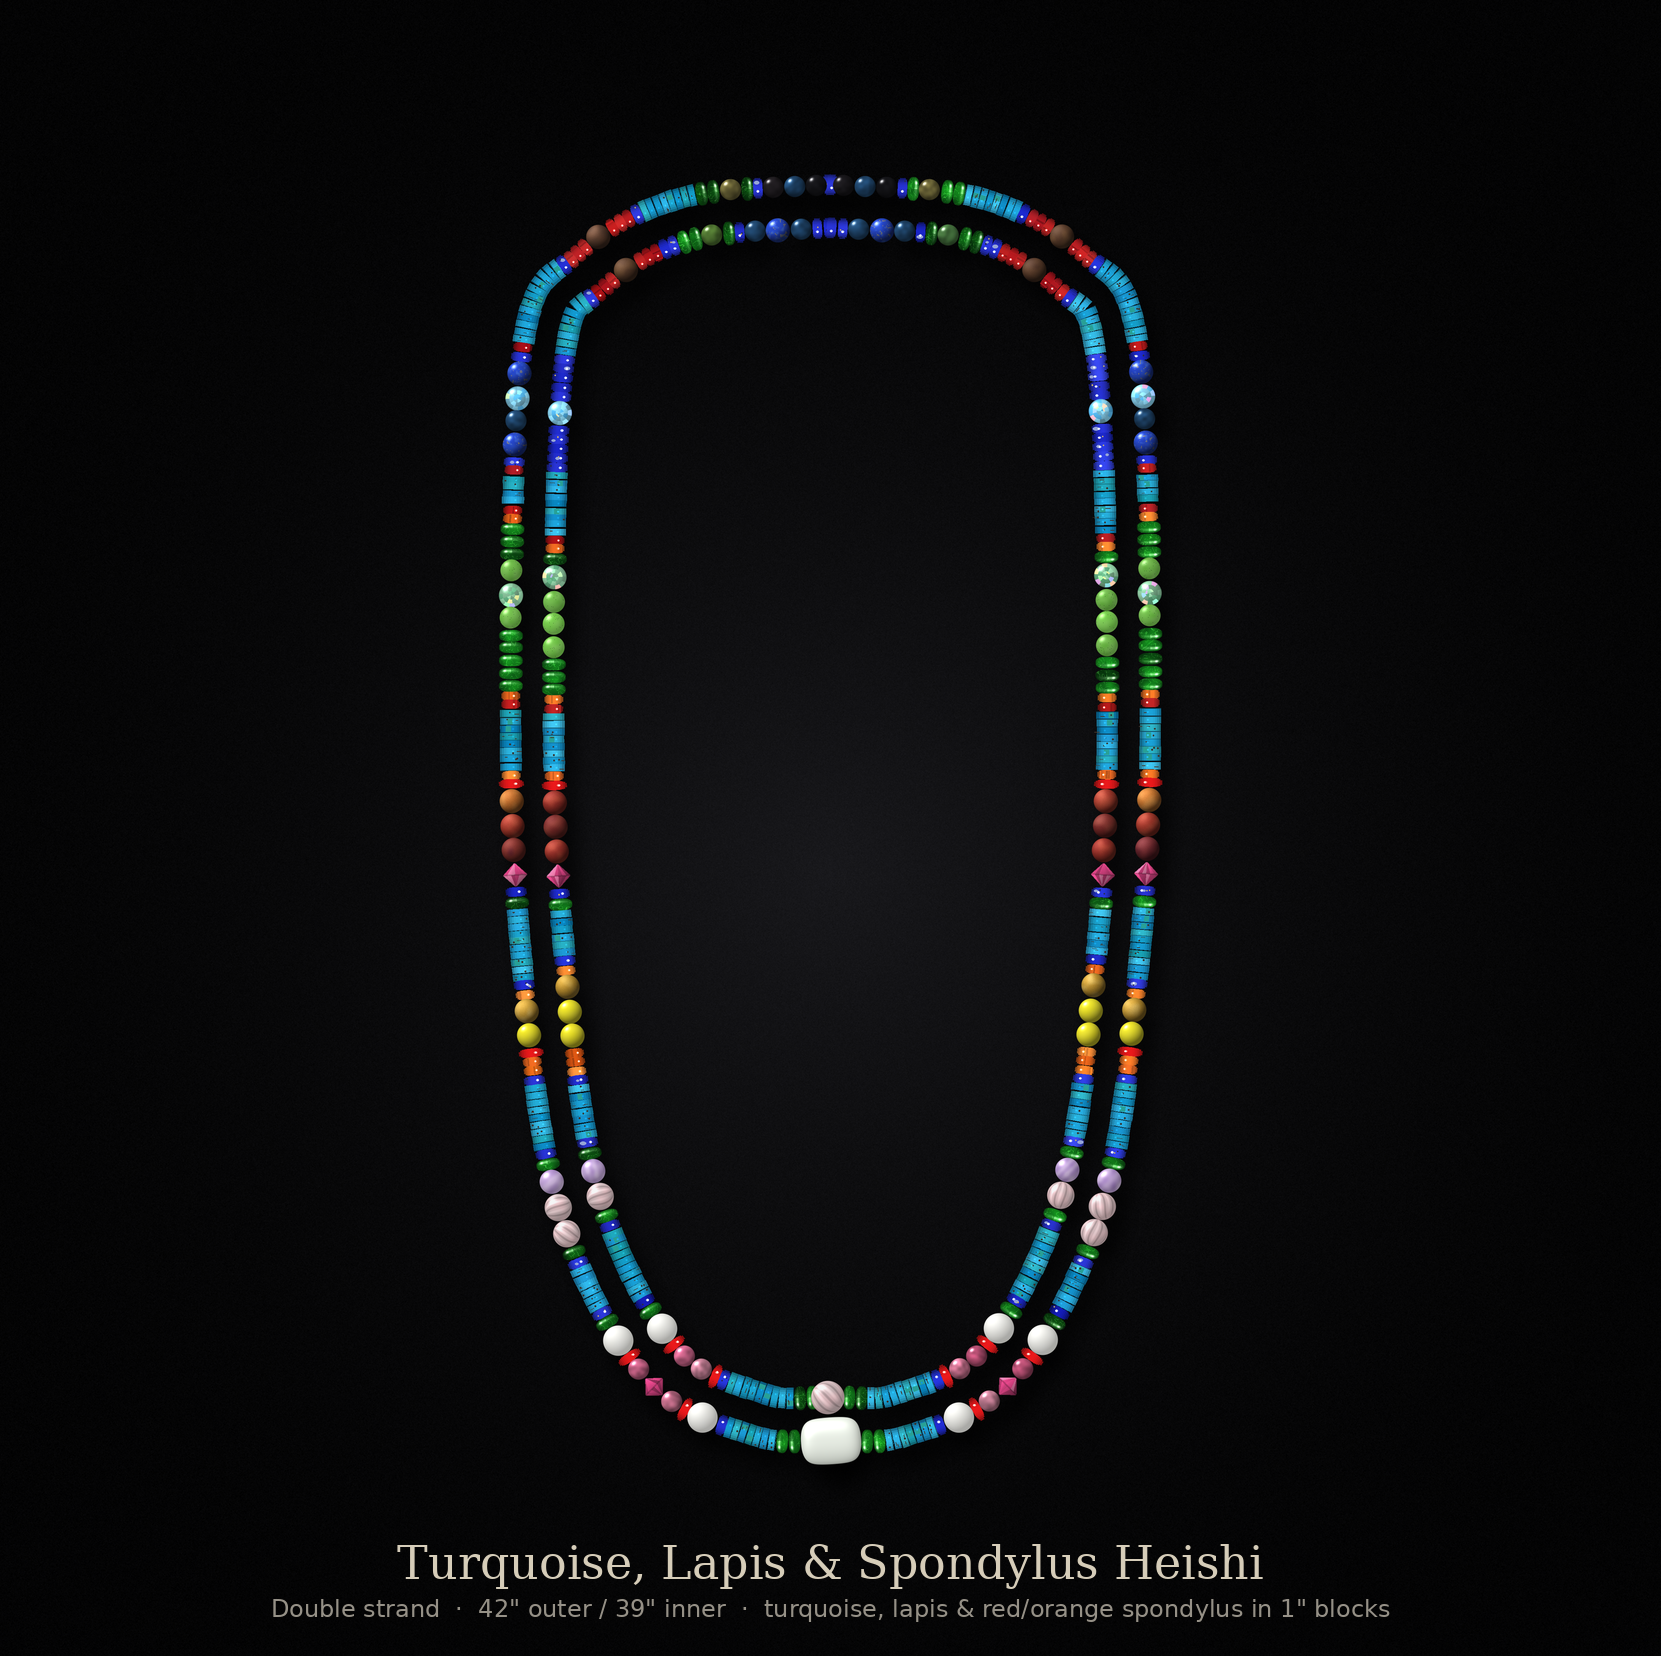
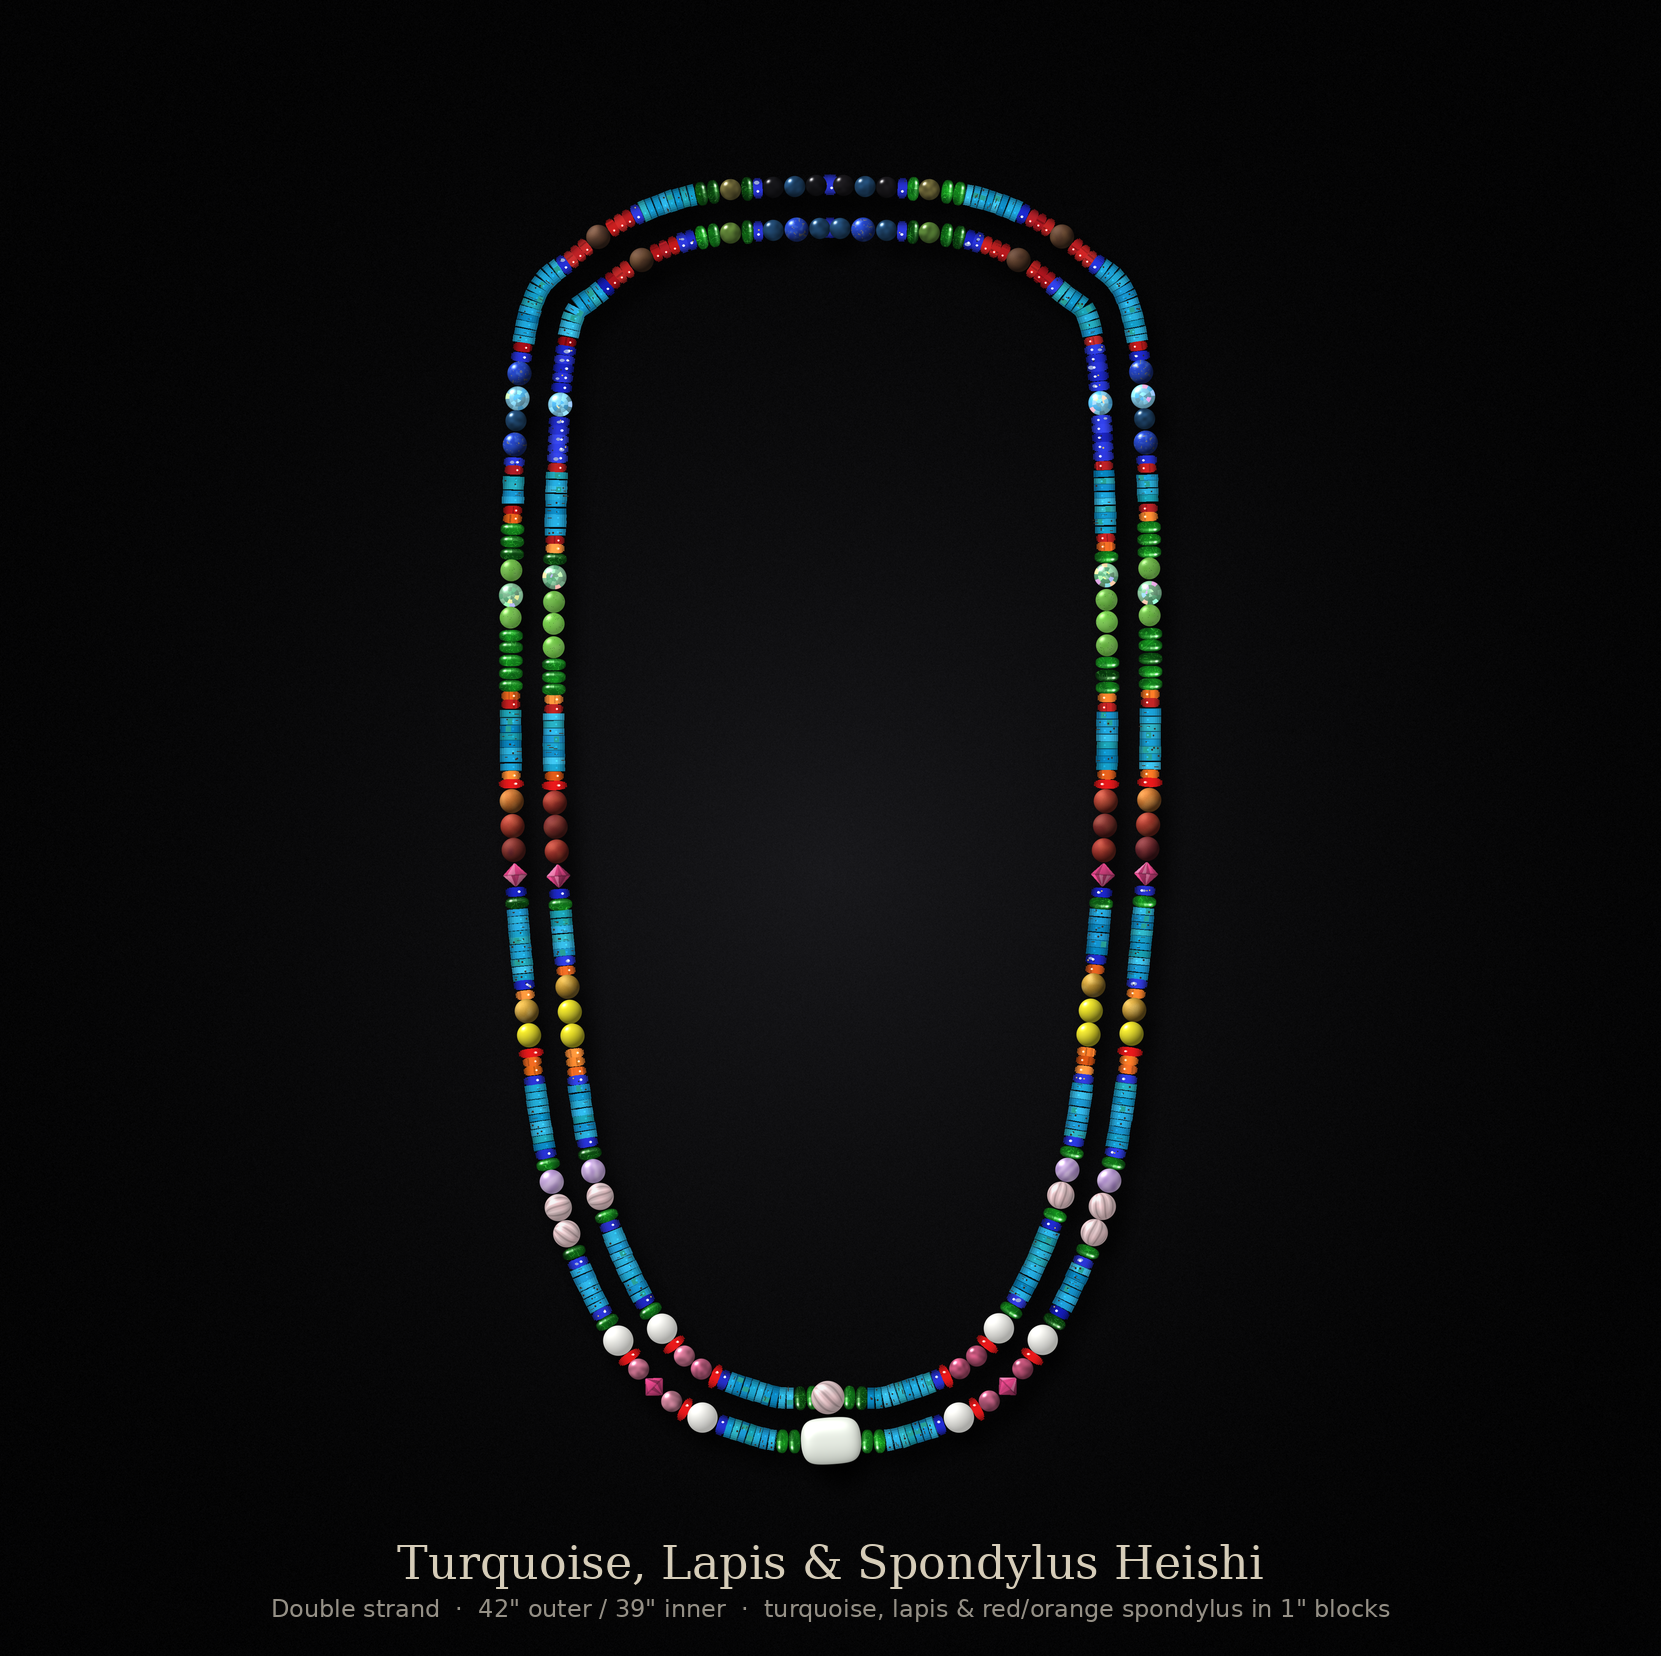
Version 5: red spiny oyster borders on the inner blue band
Claude-Session: https://claude.ai/code/session_014be1vF4Rdf8sv9Si75Gudv

diff --git a/necklace/render_necklace.py b/necklace/render_necklace.py
@@ -1020,7 +1020,7 @@ if V4:
         BANDS[6] = (_bo, _bi)
         _bl = list(BANDS[4][0]); assert _bl[0] == _bl[-1] == "lapisH"
         _bl[0] = _bl[-1] = "red"                    # outer blue band: end lapis swapped for red spiny oyster borders
-        BANDS[4] = (_bl, BANDS[4][1])
+        BANDS[4] = (_bl, ["red"] + list(BANDS[4][1]) + ["red"])   # inner blue band: red spiny oyster added at both ends
         _gi = list(BANDS[5][1]); assert _gi[2:4] == ["diop", "diop"]
         _gi[2:4] = ["gglass"]                       # inner green: 8 mm green glass beside the outer one, for two diopside
         _gi[2:4] = ["diop", "gglass"]               # chrome diopside on top of the green glass
@@ -1137,6 +1137,8 @@ if V4:
                 widths[5] -= SZ["diop"]             # diopside under the mookaite band grows it downward...
                 widths[6] += SZ["orange"]           # ...into the room left by the orange removed from the top of the yellow band
                 widths[8] -= SZ["diop"]             # diopside above the white opal: band grows upward, room from the neck
+                if st == 1:
+                    widths[3] -= 2 * SZ["red"]      # inner blue's red ends: band grows upward, room from the neck lapis
                 widths[4] -= 6.0                    # green's orange borders: laid out at the old width, room taken from the neck lapis below
                 first = Hs - sum(widths) - sum(mids) - last
                 if st == 0:                         # outer green's extra length goes downward, not into the top section
@@ -1206,6 +1208,9 @@ if V4:
                 widths[6] -= SZ["orange"]
                 widths[8] += SZ["diop"]
                 _need = 6.0 + SZ["diop"] - SZ["orange"] + SZ["diop"]
+                if st == 1:
+                    widths[3] += 2 * SZ["red"]
+                    _need += 2 * SZ["red"]
                 for _gi, _fl in ((1, 3.0), (0, 1.0), (2, 3.0)):   # neck lapis first; any shortfall from the next run up
                     _take = min(_need, max(0.0, gaps[_gi] - _fl)); gaps[_gi] -= _take; _need -= _take
                 print(f"v5 strand {st} neck gaps after shift", [round(float(x), 1) for x in gaps[:4]], "unplaced", round(_need, 2))
